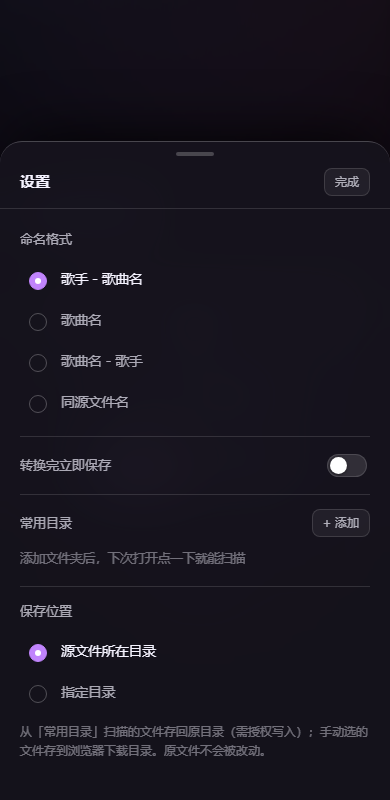
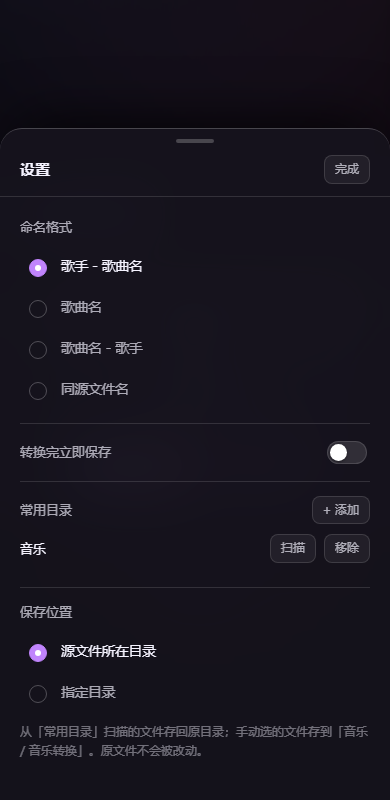
更新说明:首页改为选择文件与扫描目录两个入口,同步更新截图

diff --git a/README.md b/README.md
@@ -36,8 +36,24 @@
 - **命名格式**：歌手-歌曲名 / 歌曲名 / 歌曲名-歌手 / 同源文件名，选择会记住
 - **转换完立即保存**：打开后转完自动落盘，手机上省一步
 - **保存位置**：可设为「源文件所在目录」或「指定目录」，源文件永不被改动
-- **常用目录**：记住几个音乐文件夹，下次一键扫描（桌面 Chrome/Edge 与 APK）
+- **扫描目录**：记住音乐文件夹，下次点一下就读取整个文件夹（桌面 Chrome/Edge 与 APK）
 - **单条下载**：结果列表里每首都能单独保存，也可以整批保存
+
+## 两个入口
+
+首页只有两个动作，不做多余的分层：
+
+| 按钮 | 作用 |
+| --- | --- |
+| **选择文件** | 挑一个或多个文件 |
+| **扫描目录** | 读取整个文件夹（可递归子目录） |
+
+「扫描目录」会记住你选过的文件夹：
+
+- **第一次点** —— 弹出系统文件夹选择器，选完**自动开始扫描**，不用再点一次
+- **以后点** —— 直接扫，不再询问
+
+手机上会自动隐藏「扫描目录」里的文件夹选择能力差异，只保留可用的那部分；如果系统完全不支持目录访问（如部分手机浏览器），该按钮会隐藏。
 
 ## 使用方式
 
@@ -72,7 +88,7 @@ https://github.com/knownothing20/convert-music/releases/latest/download/convert-
 
 | 文件来源 | 保存到 |
 | --- | --- |
-| 从「常用目录」扫描 | 原目录（手机上需重新添加一次目录以获取写权限） |
+| 用「扫描目录」读入 | 原目录（手机上需重新添加一次目录以获取写权限） |
 | 手动拖入 / 选择 | 手机：「音乐 / 音乐转换」<br>电脑：浏览器下载目录 |
 | 设置里指定了目录 | 一律存到指定目录 |
 
